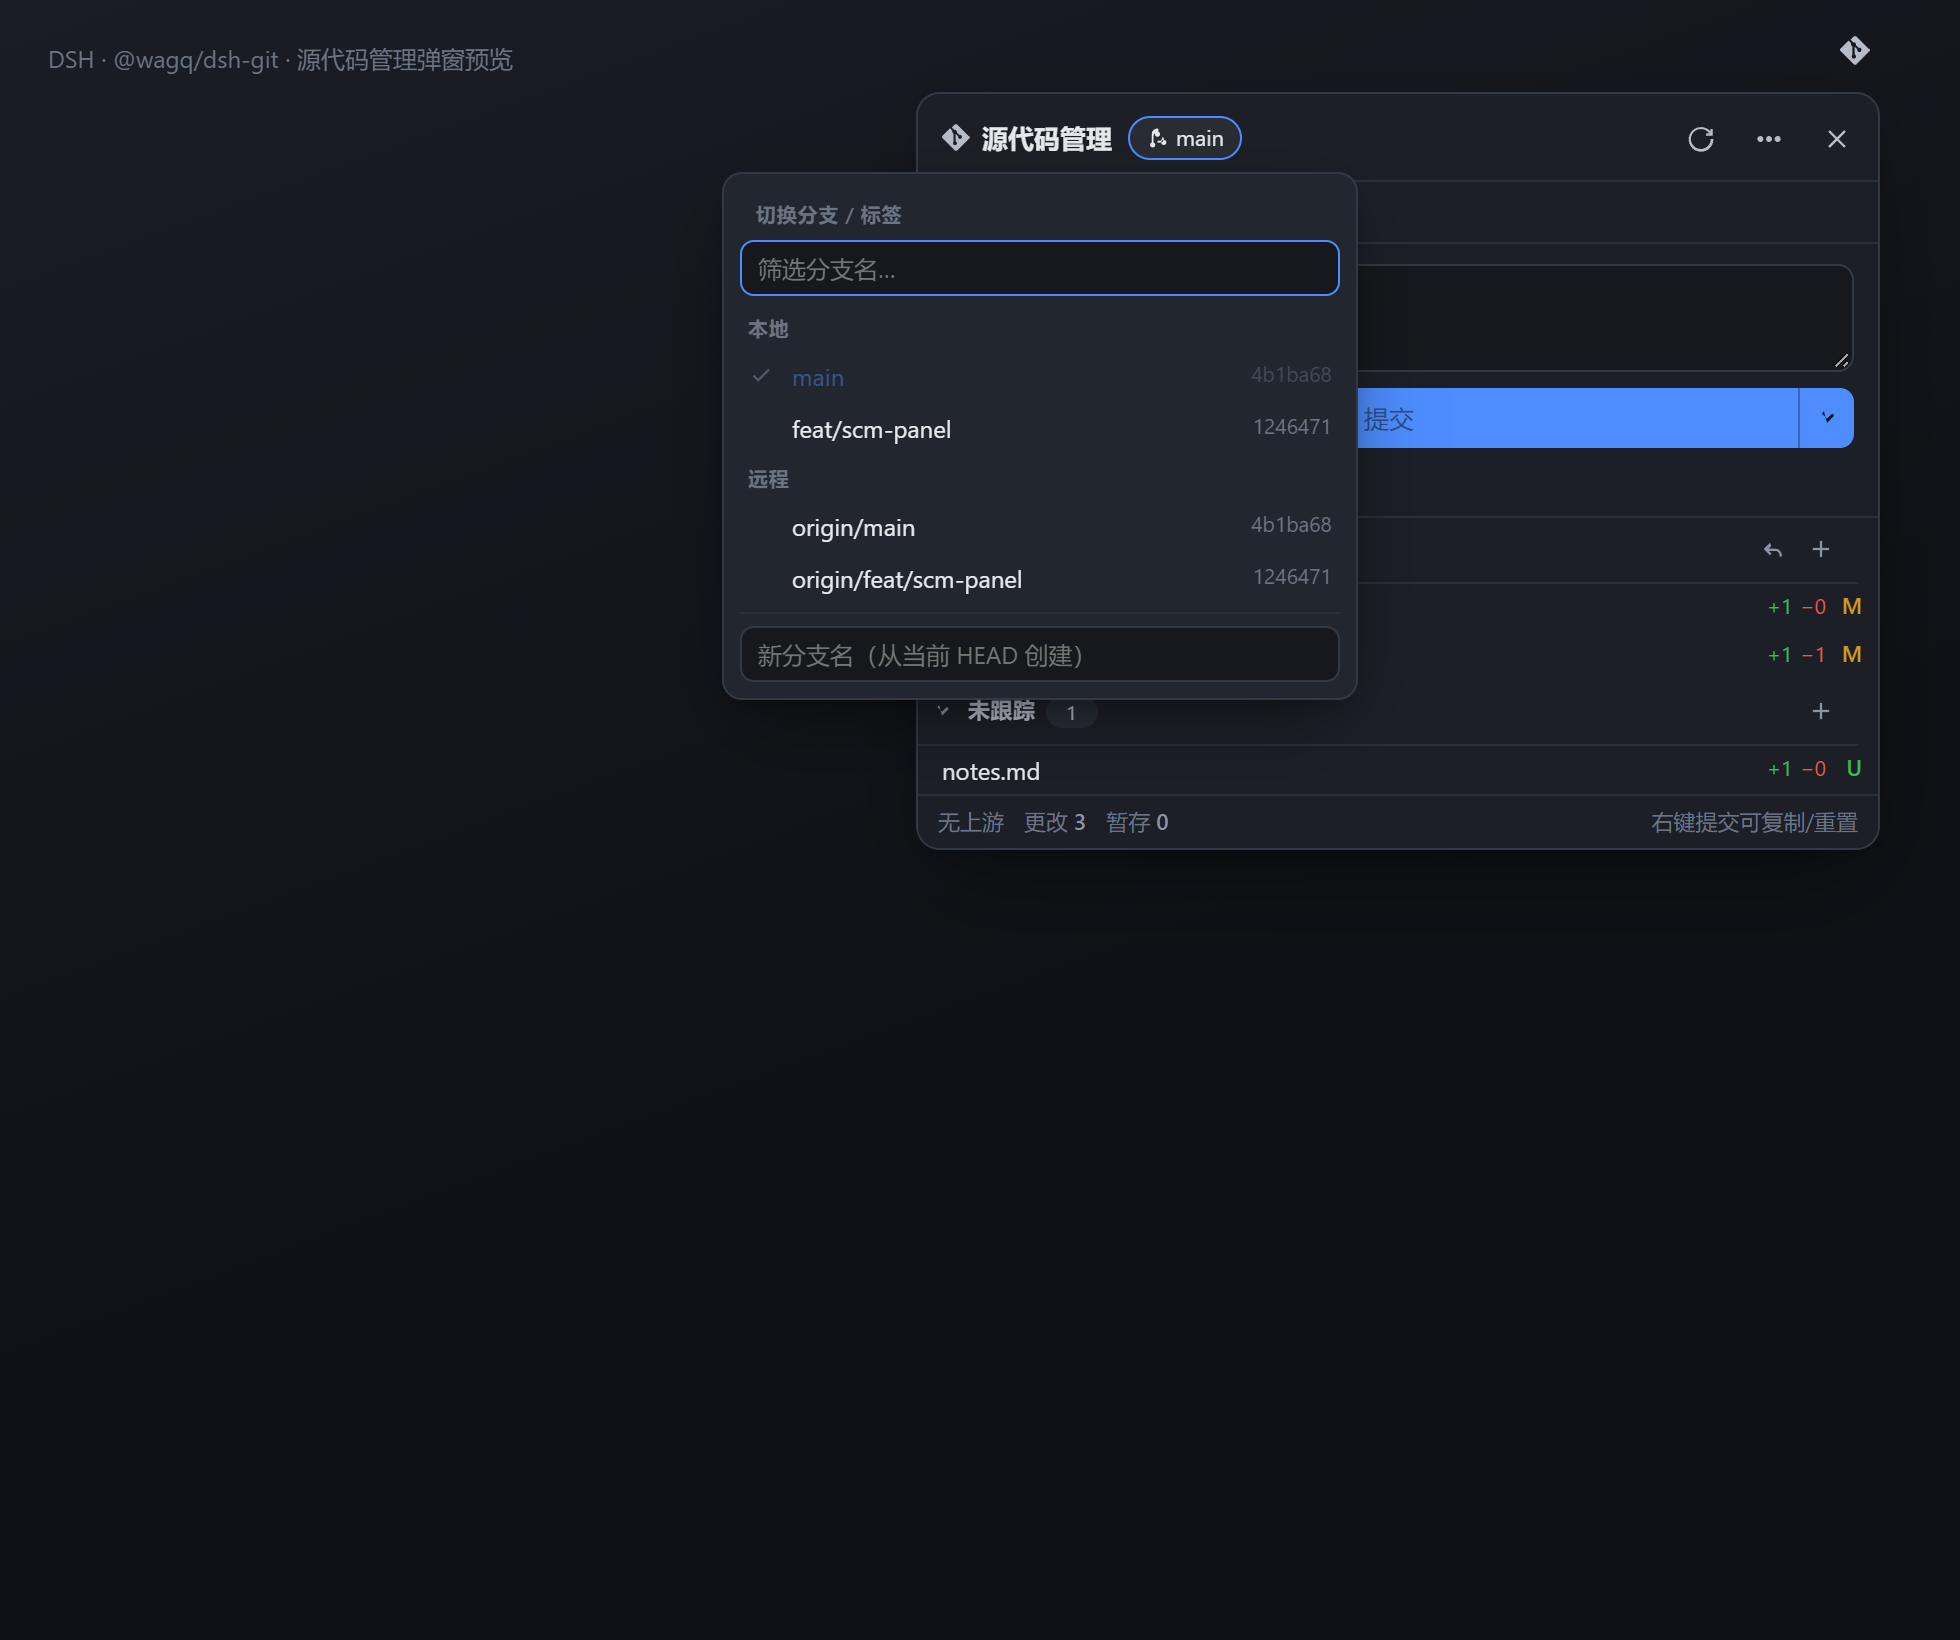
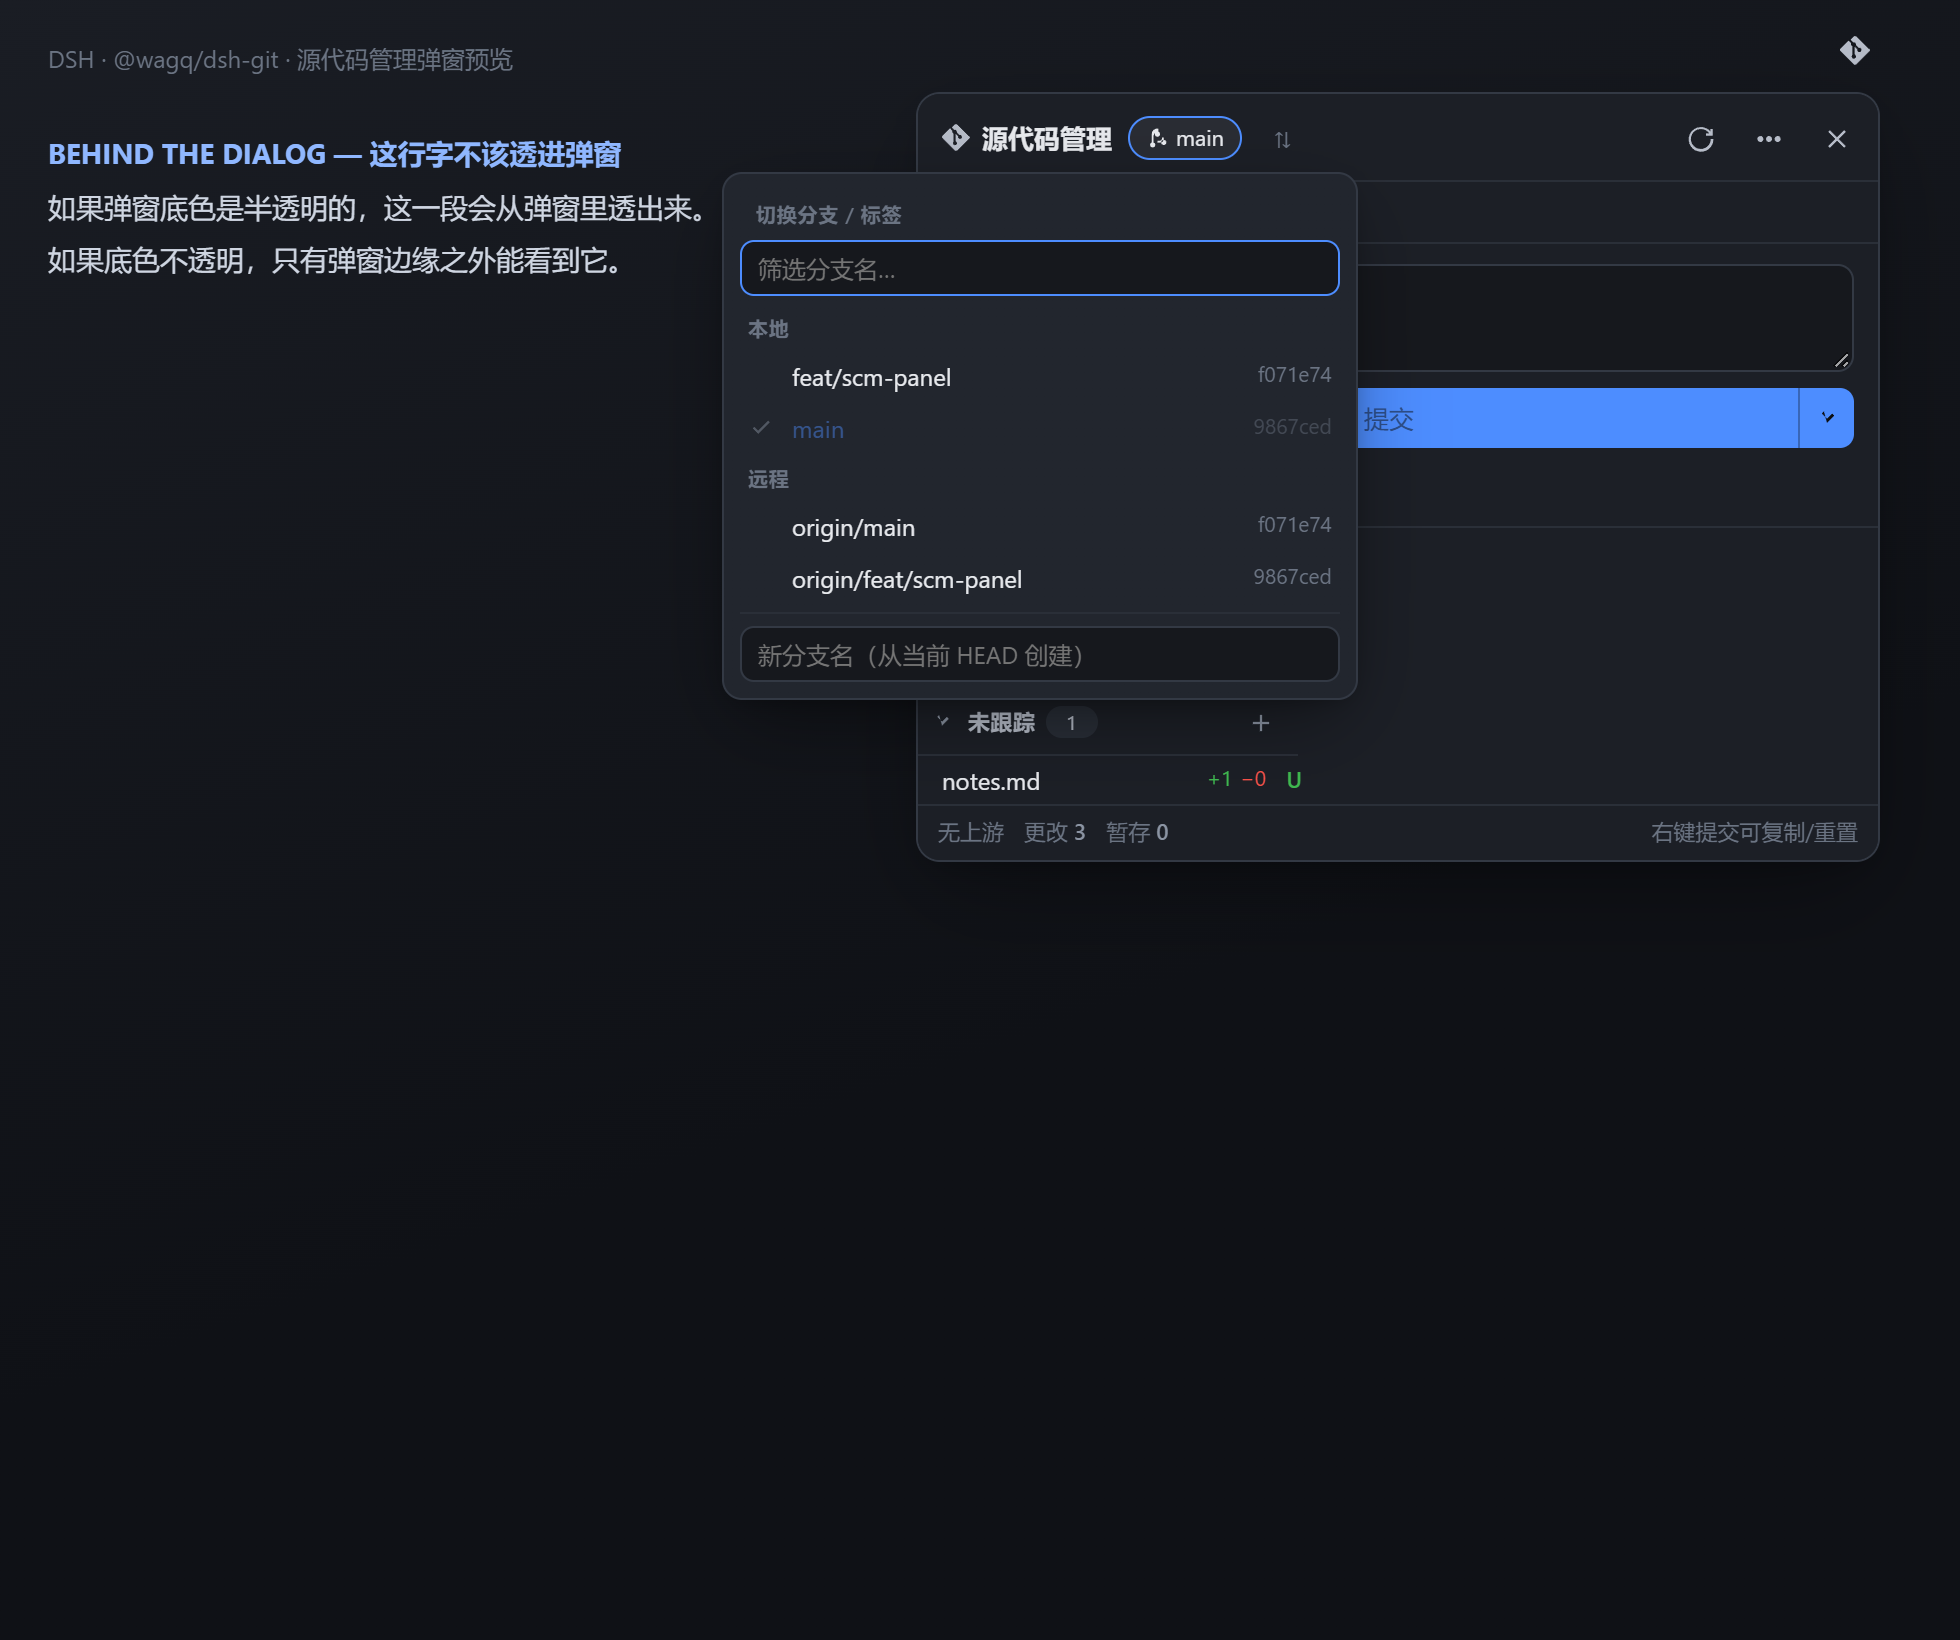
feat: Anchor SCM popup menus and update preview scenes

diff --git a/src/client/ScmPanel.ts b/src/client/ScmPanel.ts
@@ -698,6 +698,23 @@ function Popup(props: PopupProps): React.ReactElement {
   const [open, setOpen] = React.useState({ staged: true, changes: true, untracked: true })
   const [menu, setMenu] = React.useState<{ x: number; y: number; items: MenuItem[] } | null>(null)
   const [branchPicker, setBranchPicker] = React.useState<{ x: number; y: number } | null>(null)
+  /** Anchor rect of the ⋯ button, reused by every remote submenu so they stay
+   *  next to the button instead of jumping to the middle of the screen. */
+  const menuAnchor = React.useRef<{ x: number; y: number } | null>(null)
+
+  /** Open a menu at the ⋯ button and make sure the branch picker is closed. */
+  const showMenu = (items: MenuItem[], at?: { x: number; y: number }): void => {
+    setBranchPicker(null)
+    const anchor = at ?? menuAnchor.current ?? { x: window.innerWidth - 230, y: 96 }
+    menuAnchor.current = anchor
+    setMenu({ x: anchor.x, y: anchor.y, items })
+  }
+
+  /** Open the branch picker and close the ⋯ menu so the two never overlap. */
+  const showBranchPicker = (at: { x: number; y: number }): void => {
+    setMenu(null)
+    setBranchPicker(at)
+  }
   const [commitSha, setCommitSha] = React.useState('')
   const [detail, setDetail] = React.useState<CommitDetail | null>(null)
   const [confirm, setConfirm] = React.useState<{ title: string; body: string; run: () => void } | null>(null)
@@ -795,10 +812,8 @@ function Popup(props: PopupProps): React.ReactElement {
     const rect = (event.currentTarget as HTMLElement).getBoundingClientRect()
     const behind = state?.repo.behind ?? 0
     const ahead = state?.repo.ahead ?? 0
-    setMenu({
-      x: rect.right - 214,
-      y: rect.bottom + 4,
-      items: [
+    menuAnchor.current = { x: rect.right - 214, y: rect.bottom + 4 }
+    showMenu([
         { id: 'h1', label: '同步', heading: true },
         {
           id: 'pull',
@@ -831,7 +846,7 @@ function Popup(props: PopupProps): React.ReactElement {
           id: 'switch',
           label: '切换分支…',
           icon: React.createElement(Icon, { name: 'branch' }),
-          onSelect: () => setBranchPicker({ x: rect.right, y: rect.bottom }),
+          onSelect: () => showBranchPicker({ x: rect.right, y: rect.bottom }),
         },
         {
           id: 'stage',
@@ -848,8 +863,7 @@ function Popup(props: PopupProps): React.ReactElement {
         { id: 'h3', label: '其它', heading: true, separated: true },
         { id: 'terminal', label: '打开 Git 终端', icon: React.createElement(Icon, { name: 'terminal' }), onSelect: () => setTab('terminal') },
         { id: 'refresh', label: '刷新', icon: React.createElement(Icon, { name: 'refresh' }), onSelect: doManualRefresh },
-      ],
-    })
+      ])
   }
 
   const openRemotesMenu = (): void => {
@@ -875,7 +889,7 @@ function Popup(props: PopupProps): React.ReactElement {
           icon: React.createElement(Icon, { name: 'plus' }),
           onSelect: () => addRemoteFlow(),
         })
-        setMenu({ x: Math.max(8, window.innerWidth / 2 - 110), y: 120, items })
+        showMenu(items)
       })
       .catch((err: unknown) => setFailure(err instanceof Error ? err.message : String(err)))
   }
@@ -886,41 +900,37 @@ function Popup(props: PopupProps): React.ReactElement {
   }
 
   const openRemoteEdit = (remote: RemoteInfo): void => {
-    setMenu({
-      x: Math.max(8, window.innerWidth / 2 - 110),
-      y: 120,
-      items: [
-        { id: 'h', label: remote.name, heading: true },
-        {
-          id: 'copy',
-          label: '复制远端地址',
-          onSelect: () => {
-            void copyText(remote.url).then((ok) => notify(ok ? '已复制远端地址' : '复制失败'))
-          },
+    showMenu([
+      { id: 'h', label: remote.name, heading: true },
+      {
+        id: 'copy',
+        label: '复制远端地址',
+        onSelect: () => {
+          void copyText(remote.url).then((ok) => notify(ok ? '已复制远端地址' : '复制失败'))
         },
-        {
-          id: 'url',
-          label: '修改地址…',
-          onSelect: () => {
-            const next = window.prompt(`修改 ${remote.name} 的 URL`, remote.url)
-            if (next === null || next.trim() === '' || next.trim() === remote.url) return
-            run('remote', () => api.setRemoteUrl(cwd, remote.name, next.trim()))
-          },
+      },
+      {
+        id: 'url',
+        label: '修改地址…',
+        onSelect: () => {
+          const next = window.prompt(`修改 ${remote.name} 的 URL`, remote.url)
+          if (next === null || next.trim() === '' || next.trim() === remote.url) return
+          run('remote', () => api.setRemoteUrl(cwd, remote.name, next.trim()))
         },
-        {
-          id: 'remove',
-          label: `删除远端 ${remote.name}`,
-          danger: true,
-          separated: true,
-          onSelect: () =>
-            setConfirm({
-              title: `删除远端 ${remote.name}`,
-              body: '这会移除本地对它的配置，不会影响远端服务器上的仓库。',
-              run: () => run('remote', () => api.removeRemote(cwd, remote.name)),
-            }),
-        },
-      ],
-    })
+      },
+      {
+        id: 'remove',
+        label: `删除远端 ${remote.name}`,
+        danger: true,
+        separated: true,
+        onSelect: () =>
+          setConfirm({
+            title: `删除远端 ${remote.name}`,
+            body: '这会移除本地对它的配置，不会影响远端服务器上的仓库。',
+            run: () => run('remote', () => api.removeRemote(cwd, remote.name)),
+          }),
+      },
+    ])
   }
 
   const addRemoteFlow = (): void => {
@@ -936,11 +946,8 @@ function Popup(props: PopupProps): React.ReactElement {
     event.preventDefault()
     event.stopPropagation()
     const behind = commit.sha !== state?.repo.head
-    setMenu({
-      x: event.clientX,
-      y: event.clientY,
-      items: [
-        { id: 'h', label: `${commit.short} · ${commit.subject.slice(0, 28)}`, heading: true },
+    showMenu([
+      { id: 'h', label: `${commit.short} · ${commit.subject.slice(0, 28)}`, heading: true },
         {
           id: 'copy-sha',
           label: '复制提交哈希',
@@ -1002,8 +1009,7 @@ function Popup(props: PopupProps): React.ReactElement {
                 ),
             }),
         },
-      ],
-    })
+      ], { x: event.clientX, y: event.clientY })
   }
 
   const runReset = (commit: CommitNode, action: CommitAction): void => {
@@ -1592,7 +1598,7 @@ function Popup(props: PopupProps): React.ReactElement {
                 title: `当前分支 ${state.repo.branch}${state.repo.upstream === '' ? '' : `（跟踪 ${state.repo.upstream}）`}\n点击切换分支`,
                 onClick: (event) => {
                   const rect = event.currentTarget.getBoundingClientRect()
-                  setBranchPicker({ x: rect.right, y: rect.bottom })
+                  showBranchPicker({ x: rect.right, y: rect.bottom })
                 },
               },
               React.createElement(Icon, { name: 'branch' }),
